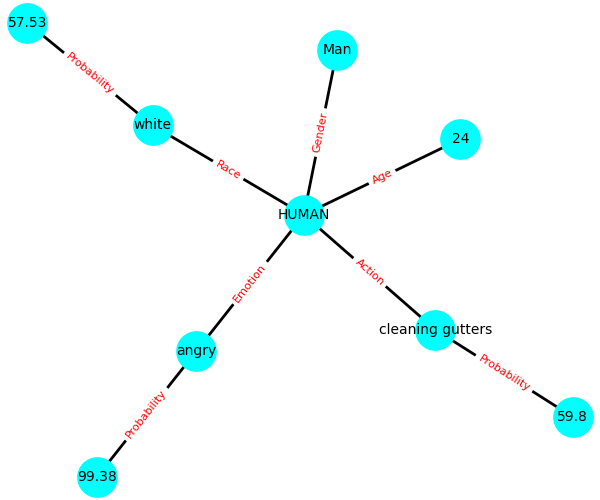
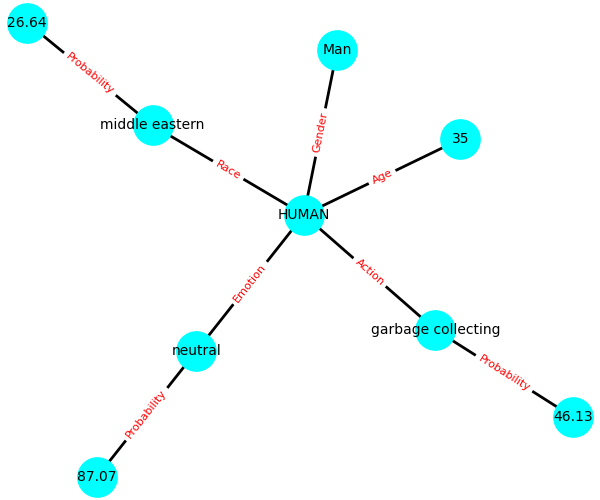
graph kinda working

diff --git a/Project-EmotionAnalysis-Copy.py b/Project-EmotionAnalysis-Copy.py
@@ -386,7 +386,7 @@ def KG_DATA2(descriptionclean):
     nx.draw_networkx_edge_labels(G, pos, edge_labels,label_pos=0.5, font_size=12)
     plt.savefig('langmodel22.png')
     my_placeholder4.image('langmodel22.png')
-    shape = fig.get_size_inches()
+    #shape = fig.get_size_inches()
     #my_placeholder2.write(shape)
     #my_placeholder2.pyplot(fig, figsize = (50,50))
     
@@ -396,6 +396,8 @@ def KG_DATA2(descriptionclean):
 #Main Program
 
 description=[]
+for i in range(10):
+    description.append("startseq  endseq")
 count=1
 device="gpu"
 if stream:
@@ -413,13 +415,14 @@ if stream:
     ##Captioning class object
     cap = caption.ImageCaptioning(model='Image_captioning//New_Model.h5',tokenizer='Image_captioning//New_Tok.pkl')
     caption_textList = 'Ligne1\nLigne2\nLigne3\nLigne4\nLigne5\nLigne6\nLigne7\nLigne8\nLigne9\nLigne10'
-    st.text_area("Description model", value=caption_textList, height=275, max_chars=0, key=10)
-
+    #st.text_area("Description model", value=caption_textList, height=275, max_chars=0, key=10)
+    
+    
     while True:
         ret,frame=cam.read()
         image1=frame
-        #if(type(frame) == NoneType):
-        #continue
+        if not (ret):
+            continue
         frameWidth = image1.shape[1]
         frameHeight = image1.shape[0]
         t = time.time()
@@ -435,16 +438,17 @@ if stream:
         keypoints_list = np.zeros((0,3))
         keypoint_id = 0
         threshold = 0.1
-        
         ##Captioning
-        descriptionclean=[]
         new_caption = cap.run(frame)
         print(new_caption)
         caption_textList = new_caption
+        descriptionclean=[]
+        descriptionclean.append("hello")
         description.append(new_caption)
         for i in range(len(description)):
-            descriptionclean.append(description[len(description)-i][9:(len(description[len(description)-i])-7)])
-            if len(description)>10:
+            if len(description)<10:
+                descriptionclean.append(description[len(description)-i][9:(len(description[len(description)-i])-7)])
+            elif len(description)>=10:
                 descriptionclean.append(description[len(description)-10][9:(len(description[len(description)-10])-7)])
                 descriptionclean.append(description[len(description)-9][9:(len(description[len(description)-9])-7)])
                 descriptionclean.append(description[len(description)-8][9:(len(description[len(description)-8])-7)])
